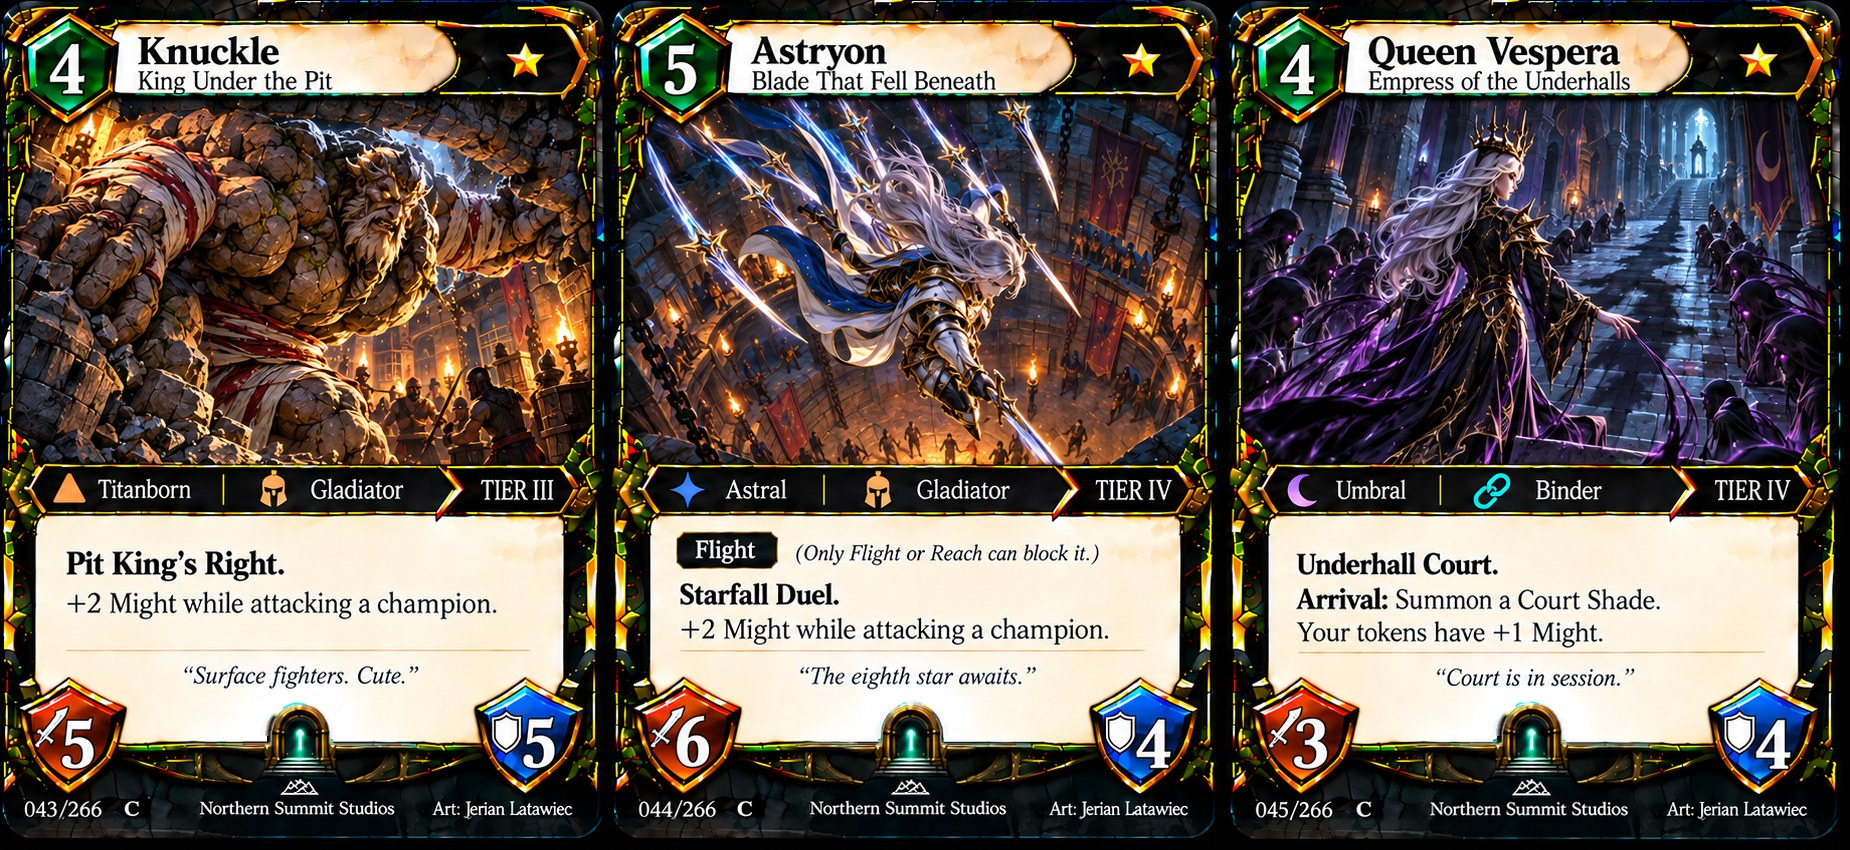
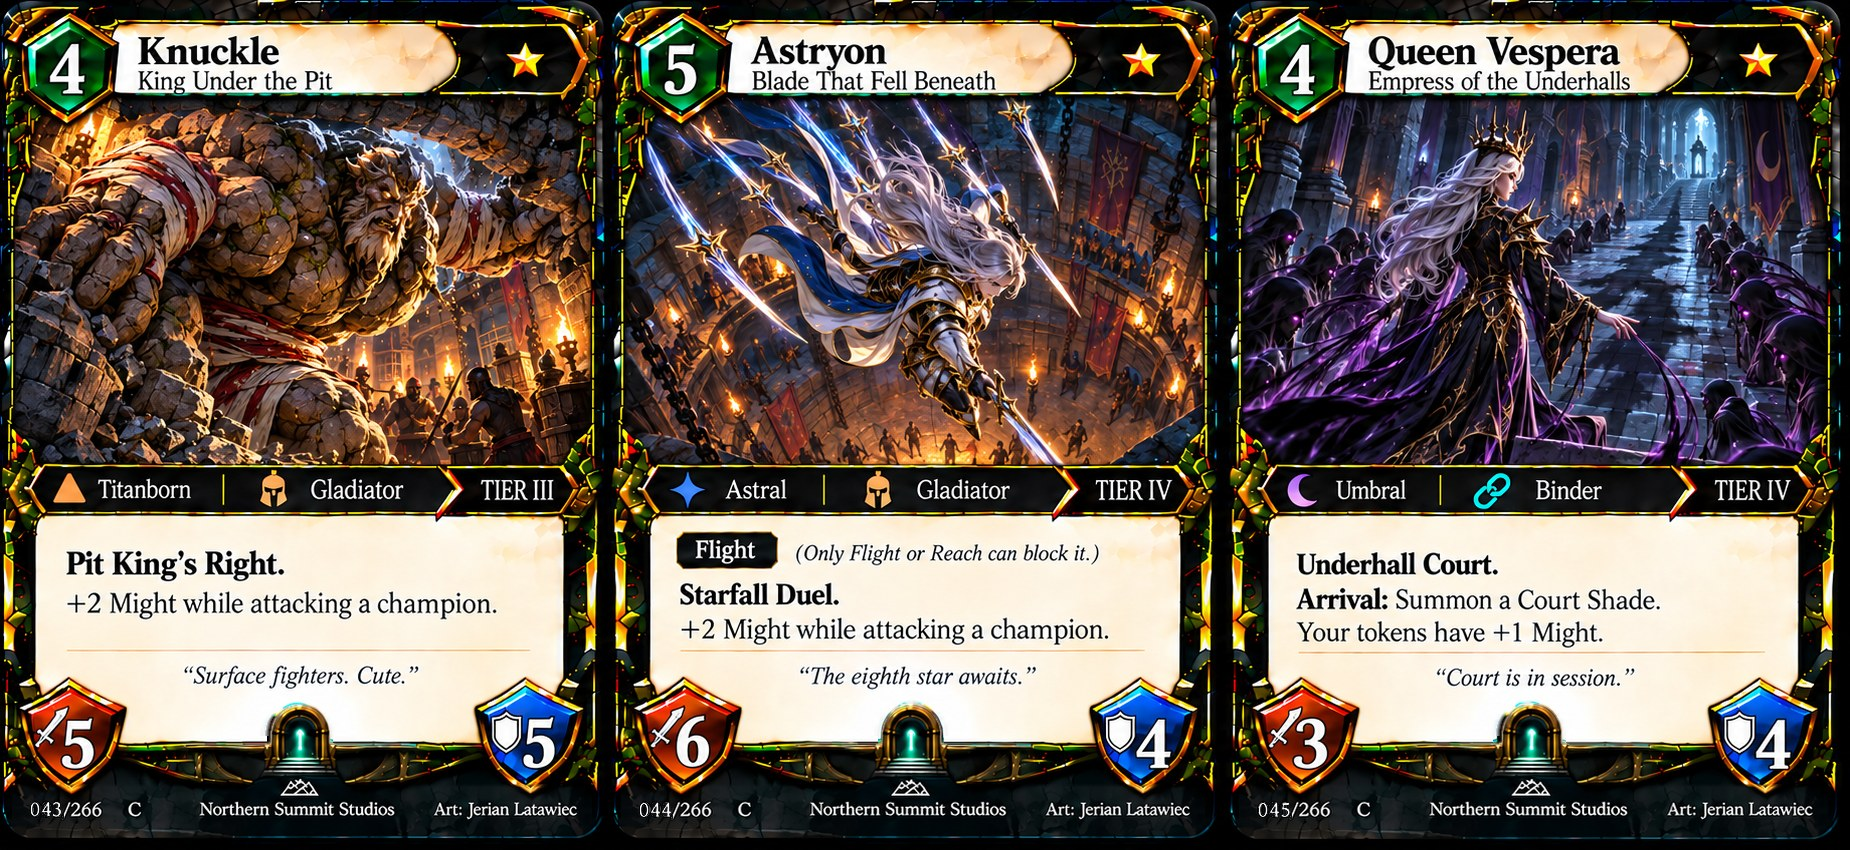
art(set2): footer line of 043-060 rebuilt from card 001 (same size/font/baseline, own number)

diff --git a/prototype-v0.2/tools/set2-emblem.py b/prototype-v0.2/tools/set2-emblem.py
@@ -5,6 +5,7 @@ card with ONE reference block cut from the first approved Set 2 card (S2-001 Bra
 The parchment and flavour text above the arch are kept: reference parchment pixels are left out of the stamp.
 """
 import os
+import re
 
 import numpy as np
 from PIL import Image, ImageDraw, ImageFilter
@@ -640,6 +641,97 @@ def fix_border(card, kind):
     return Image.fromarray(np.clip(out, 0, 255).astype("uint8"))
 
 
+# Cards 043-060 came back with a slightly larger / bolder footer line (owner 2026-10-17). Their footer line is rebuilt
+# from card 001's: same "Northern Summit Studios", same "Art: Jerian Latawiec", same size, same baseline; the card
+# number uses digits cut from cards 001-018 (the approved footer style), dropped into 001's digit slots.
+FOOTER_FIX = {f"{n:03d}" for n in range(43, 61)}
+_GLYPHS = None
+
+
+def _footer_band(a, w, h):
+    fy = footer_row(a, w, h) or h * 0.955
+    return int(fy - h * 0.026), int(fy + h * 0.026)
+
+
+def _runs(mask_cols, gap=1):
+    cols = np.where(mask_cols)[0]
+    out, st = [], None
+    for c0, c1 in zip(cols, list(cols[1:]) + [None]):
+        st = c0 if st is None else st
+        if c1 is None or c1 - c0 > gap:
+            out.append((st, c0 + 1)); st = None
+    return out
+
+
+def _glyphs():
+    """{digit: (alpha 0..1 array, rgb)} at card width 605, plus 001's digit slot boxes."""
+    global _GLYPHS
+    if _GLYPHS is None:
+        lib, slots = {}, None
+        for name in sorted(os.listdir(ORIGINALS)):
+            if not name.startswith("Cards 0") or int(name[6:9]) > 30:
+                continue
+            nums = re.findall(r"\d{3}", name.split(" ", 2)[1])
+            nums = [nums[0], f"{int(nums[0]) + 1:03d}", nums[1]] if len(nums) == 2 else nums
+            im = Image.open(os.path.join(ORIGINALS, name)).convert("RGB")
+            for no, b in zip(nums, _cards(im)):
+                c = im.crop(b).resize((605, round(605 * (b[3] - b[1]) / (b[2] - b[0]))), Image.LANCZOS)
+                a = np.asarray(c).astype(float)
+                h = a.shape[0]
+                y0, y1 = _footer_band(a.astype(int), 605, h)
+                reg = a[y0:y1, 10:130]
+                al = np.clip((reg.min(axis=2) - 90) / 90.0, 0, 1)
+                runs = [r for r in _runs((al > 0.35).any(axis=0)) if r[1] - r[0] >= 3]
+                if len(runs) < 7:
+                    continue
+                for k, d in enumerate(no):
+                    x0, x1 = runs[k]
+                    if x1 - x0 > 11:          # merged with a neighbour (e.g. "7/"): not a clean glyph
+                        continue
+                    if d not in lib or (x1 - x0) < lib[d][0].shape[1] - 2:
+                        lib[d] = (al[:, x0 - 1:x1 + 1], reg[:, x0 - 1:x1 + 1])
+                if no == "001":
+                    c0 = [(runs[k][0] + runs[k][1]) / 2 + 10 for k in range(2)]
+                    pitch = c0[1] - c0[0]
+                    slots = [(c0[0] - 5, c0[0] + 5), (c0[1] - 5, c0[1] + 5), (c0[1] + pitch - 5, c0[1] + pitch + 5)]
+        _GLYPHS = (lib, slots)
+    return _GLYPHS
+
+
+def fix_footer(card, number):
+    im = card.convert("RGB")
+    a = np.asarray(im).astype(float)
+    h, w, _ = a.shape
+    ref = Image.open(os.path.join(ORIGINALS, REF_SHEET)).convert("RGB")
+    rc = ref.crop(_cards(ref)[0]).resize((w, h), Image.LANCZOS)
+    r = np.asarray(rc).astype(float)
+    ty0, ty1 = _footer_band(a.astype(int), w, h)
+    ry0, ry1 = _footer_band(r.astype(int), w, h)
+    n = min(ty1 - ty0, ry1 - ry0)
+    strip = r[ry0:ry0 + n].copy()
+    # 001's number digits -> this card's digits (same slots, same size; 605-wide glyphs scaled to this card)
+    lib, slots = _glyphs()
+    s = w / 605.0
+    for k, d in enumerate(number):
+        sx0, sx1 = int(slots[k][0] * s), int(slots[k][1] * s) + 1
+        bg = np.median(strip[:, sx0 - 6:sx0 - 2].reshape(-1, 3), axis=0) if sx0 > 8 else strip[:, sx0].mean(axis=0)
+        reg = strip[:, sx0 - 1:sx1 + 1]
+        lum = reg.min(axis=2)
+        reg[lum > 90] = bg                                    # clear 001's digit
+        ga, gc = lib[d]
+        gw = max(1, round(ga.shape[1] * s)); gh = n
+        ga = np.asarray(Image.fromarray((ga * 255).astype("uint8")).resize((gw, gh), Image.LANCZOS)).astype(float) / 255
+        gc = np.asarray(Image.fromarray(gc.astype("uint8")).resize((gw, gh), Image.LANCZOS)).astype(float)
+        cx = (sx0 + sx1) // 2 - gw // 2
+        tgt = strip[:, cx:cx + gw]
+        strip[:, cx:cx + gw] = tgt * (1 - ga[:, :tgt.shape[1], None]) + gc[:, :tgt.shape[1]] * ga[:, :tgt.shape[1], None]
+    # paste the whole footer line, feathered top and bottom so it melts into this card's band
+    fe = np.clip(np.minimum(np.arange(n), np.arange(n)[::-1]) / 4.0, 0, 1)[:, None, None]
+    x0, x1 = int(w * 0.02), int(w * 0.98)
+    a[ty0:ty0 + n, x0:x1] = a[ty0:ty0 + n, x0:x1] * (1 - fe) + strip[:, x0:x1] * fe
+    return Image.fromarray(np.clip(a, 0, 255).astype("uint8"))
+
+
 def main():
     """Stamp every Set 2 sheet from its untouched original (copied once to Old/Card Sheets (original)),
     then refresh the repo previews in prototype-v0.2/card-art/set2. Safe to run again after new sheets arrive."""
@@ -670,7 +762,10 @@ def main():
             no = nums[i] if i < len(nums) else None
             if no in BORDER_FIX:
                 card = fix_border(card, BORDER_FIX[no])
-            im.paste(stamp_rim(clean_gate(stamp_emblem(card))), b[:2])
+            done_card = stamp_rim(clean_gate(stamp_emblem(card)))
+            if no in FOOTER_FIX:
+                done_card = fix_footer(done_card, no)
+            im.paste(done_card, b[:2])
         if check:
             print("would stamp", name); continue
         dest = os.path.join(sheets, name)
